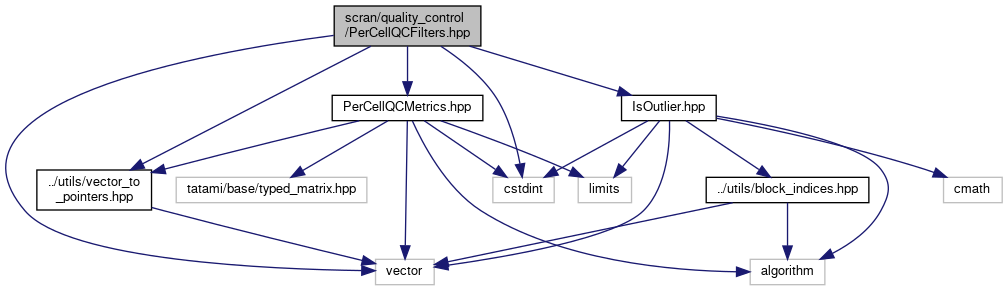
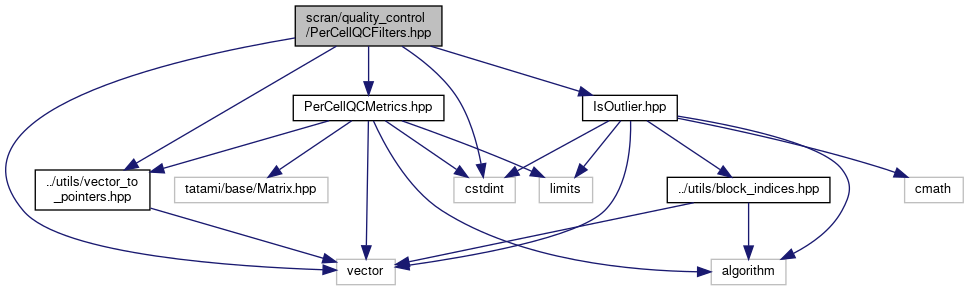
Deploying to gh-pages from @ LTLA/libscran@9872fdc31f9505e23e76f8c2ffe08160e81ae465 🚀

diff --git a/docs/PerCellQCMetrics_8hpp_source.html b/docs/PerCellQCMetrics_8hpp_source.html
@@ -79,7 +79,7 @@ $(function() {
 <div class="line"><a name="l00006"></a><span class="lineno">    6</span>&#160;<span class="preprocessor">#include &lt;limits&gt;</span></div>
 <div class="line"><a name="l00007"></a><span class="lineno">    7</span>&#160;<span class="preprocessor">#include &lt;cstdint&gt;</span></div>
 <div class="line"><a name="l00008"></a><span class="lineno">    8</span>&#160; </div>
-<div class="line"><a name="l00009"></a><span class="lineno">    9</span>&#160;<span class="preprocessor">#include &quot;tatami/base/typed_matrix.hpp&quot;</span></div>
+<div class="line"><a name="l00009"></a><span class="lineno">    9</span>&#160;<span class="preprocessor">#include &quot;tatami/base/Matrix.hpp&quot;</span></div>
 <div class="line"><a name="l00010"></a><span class="lineno">   10</span>&#160;<span class="preprocessor">#include &quot;../utils/vector_to_pointers.hpp&quot;</span></div>
 <div class="line"><a name="l00011"></a><span class="lineno">   11</span>&#160; </div>
 <div class="line"><a name="l00018"></a><span class="lineno">   18</span>&#160;<span class="keyword">namespace </span>scran {</div>
@@ -112,14 +112,14 @@ $(function() {
 <div class="line"><a name="l00097"></a><span class="lineno">   97</span>&#160; </div>
 <div class="line"><a name="l00098"></a><span class="lineno">   98</span>&#160;<span class="keyword">public</span>:</div>
 <div class="line"><a name="l00107"></a><span class="lineno">  107</span>&#160;    <span class="keyword">template</span>&lt;<span class="keyword">typename</span> T, <span class="keyword">typename</span> IDX&gt;</div>
-<div class="line"><a name="l00108"></a><span class="lineno"><a class="line" href="classscran_1_1PerCellQCMetrics.html#afad82e4abf25bcab9dd02b745b0cbb4a">  108</a></span>&#160;    <a class="code" href="structscran_1_1PerCellQCMetrics_1_1Results.html">Results</a> <a class="code" href="classscran_1_1PerCellQCMetrics.html#afad82e4abf25bcab9dd02b745b0cbb4a">run</a>(<span class="keyword">const</span> tatami::typed_matrix&lt;T, IDX&gt;* mat) {</div>
+<div class="line"><a name="l00108"></a><span class="lineno"><a class="line" href="classscran_1_1PerCellQCMetrics.html#a1c92ce64f889f883aa34c91c91f7b34f">  108</a></span>&#160;    <a class="code" href="structscran_1_1PerCellQCMetrics_1_1Results.html">Results</a> <a class="code" href="classscran_1_1PerCellQCMetrics.html#a1c92ce64f889f883aa34c91c91f7b34f">run</a>(<span class="keyword">const</span> tatami::Matrix&lt;T, IDX&gt;* mat) {</div>
 <div class="line"><a name="l00109"></a><span class="lineno">  109</span>&#160;        <a class="code" href="structscran_1_1PerCellQCMetrics_1_1Results.html">Results</a> output(mat-&gt;ncol(), subsets.size());</div>
-<div class="line"><a name="l00110"></a><span class="lineno">  110</span>&#160;        <a class="code" href="classscran_1_1PerCellQCMetrics.html#afad82e4abf25bcab9dd02b745b0cbb4a">run</a>(mat, output.<a class="code" href="structscran_1_1PerCellQCMetrics_1_1Results.html#ab5bb02c70da538cd219ab34ff251ac10">sums</a>.data(), output.<a class="code" href="structscran_1_1PerCellQCMetrics_1_1Results.html#a7b989c742246c9faf8c2dad712f58903">detected</a>.data(), vector_to_pointers(output.<a class="code" href="structscran_1_1PerCellQCMetrics_1_1Results.html#a1e7024d0847a5f11b6bbf21b0cd27aa9">subset_proportions</a>));</div>
+<div class="line"><a name="l00110"></a><span class="lineno">  110</span>&#160;        <a class="code" href="classscran_1_1PerCellQCMetrics.html#a1c92ce64f889f883aa34c91c91f7b34f">run</a>(mat, output.<a class="code" href="structscran_1_1PerCellQCMetrics_1_1Results.html#ab5bb02c70da538cd219ab34ff251ac10">sums</a>.data(), output.<a class="code" href="structscran_1_1PerCellQCMetrics_1_1Results.html#a7b989c742246c9faf8c2dad712f58903">detected</a>.data(), vector_to_pointers(output.<a class="code" href="structscran_1_1PerCellQCMetrics_1_1Results.html#a1e7024d0847a5f11b6bbf21b0cd27aa9">subset_proportions</a>));</div>
 <div class="line"><a name="l00111"></a><span class="lineno">  111</span>&#160;        <span class="keywordflow">return</span> output;</div>
 <div class="line"><a name="l00112"></a><span class="lineno">  112</span>&#160;    }</div>
 <div class="line"><a name="l00113"></a><span class="lineno">  113</span>&#160; </div>
 <div class="line"><a name="l00127"></a><span class="lineno">  127</span>&#160;    <span class="keyword">template</span>&lt;<span class="keyword">typename</span> T, <span class="keyword">typename</span> IDX, <span class="keyword">typename</span> S, <span class="keyword">typename</span> D, <span class="keyword">typename</span> P&gt;</div>
-<div class="line"><a name="l00128"></a><span class="lineno"><a class="line" href="classscran_1_1PerCellQCMetrics.html#a151571be33c547178faa9e0c1eaecf29">  128</a></span>&#160;    <span class="keywordtype">void</span> <a class="code" href="classscran_1_1PerCellQCMetrics.html#a151571be33c547178faa9e0c1eaecf29">run</a>(<span class="keyword">const</span> tatami::typed_matrix&lt;T, IDX&gt;* mat, S* sums, D* detected, std::vector&lt;P*&gt; subset_proportions) {</div>
+<div class="line"><a name="l00128"></a><span class="lineno"><a class="line" href="classscran_1_1PerCellQCMetrics.html#a7d63edaacdaeb64a79a30bb5ccea82c8">  128</a></span>&#160;    <span class="keywordtype">void</span> <a class="code" href="classscran_1_1PerCellQCMetrics.html#a7d63edaacdaeb64a79a30bb5ccea82c8">run</a>(<span class="keyword">const</span> tatami::Matrix&lt;T, IDX&gt;* mat, S* sums, D* detected, std::vector&lt;P*&gt; subset_proportions) {</div>
 <div class="line"><a name="l00129"></a><span class="lineno">  129</span>&#160;        <span class="keywordtype">size_t</span> nr = mat-&gt;nrow(), nc = mat-&gt;ncol();</div>
 <div class="line"><a name="l00130"></a><span class="lineno">  130</span>&#160; </div>
 <div class="line"><a name="l00131"></a><span class="lineno">  131</span>&#160;        <span class="keywordflow">if</span> (mat-&gt;prefer_rows()) {</div>
@@ -239,12 +239,12 @@ $(function() {
 <div class="line"><a name="l00245"></a><span class="lineno">  245</span>&#160; </div>
 <div class="line"><a name="l00246"></a><span class="lineno">  246</span>&#160;<span class="preprocessor">#endif</span></div>
 <div class="ttc" id="aclassscran_1_1PerCellQCMetrics_html"><div class="ttname"><a href="classscran_1_1PerCellQCMetrics.html">scran::PerCellQCMetrics</a></div><div class="ttdoc">Compute typical per-cell quality control metrics.</div><div class="ttdef"><b>Definition:</b> PerCellQCMetrics.hpp:35</div></div>
-<div class="ttc" id="aclassscran_1_1PerCellQCMetrics_html_a151571be33c547178faa9e0c1eaecf29"><div class="ttname"><a href="classscran_1_1PerCellQCMetrics.html#a151571be33c547178faa9e0c1eaecf29">scran::PerCellQCMetrics::run</a></div><div class="ttdeci">void run(const tatami::typed_matrix&lt; T, IDX &gt; *mat, S *sums, D *detected, std::vector&lt; P * &gt; subset_proportions)</div><div class="ttdef"><b>Definition:</b> PerCellQCMetrics.hpp:128</div></div>
+<div class="ttc" id="aclassscran_1_1PerCellQCMetrics_html_a1c92ce64f889f883aa34c91c91f7b34f"><div class="ttname"><a href="classscran_1_1PerCellQCMetrics.html#a1c92ce64f889f883aa34c91c91f7b34f">scran::PerCellQCMetrics::run</a></div><div class="ttdeci">Results run(const tatami::Matrix&lt; T, IDX &gt; *mat)</div><div class="ttdef"><b>Definition:</b> PerCellQCMetrics.hpp:108</div></div>
 <div class="ttc" id="aclassscran_1_1PerCellQCMetrics_html_a3805947ce4bf8d355d79d375c2a1eaf6"><div class="ttname"><a href="classscran_1_1PerCellQCMetrics.html#a3805947ce4bf8d355d79d375c2a1eaf6">scran::PerCellQCMetrics::PerCellQCMetrics</a></div><div class="ttdeci">PerCellQCMetrics()</div><div class="ttdef"><b>Definition:</b> PerCellQCMetrics.hpp:40</div></div>
+<div class="ttc" id="aclassscran_1_1PerCellQCMetrics_html_a7d63edaacdaeb64a79a30bb5ccea82c8"><div class="ttname"><a href="classscran_1_1PerCellQCMetrics.html#a7d63edaacdaeb64a79a30bb5ccea82c8">scran::PerCellQCMetrics::run</a></div><div class="ttdeci">void run(const tatami::Matrix&lt; T, IDX &gt; *mat, S *sums, D *detected, std::vector&lt; P * &gt; subset_proportions)</div><div class="ttdef"><b>Definition:</b> PerCellQCMetrics.hpp:128</div></div>
 <div class="ttc" id="aclassscran_1_1PerCellQCMetrics_html_a945a454e04bfffb66b19e02027eaed71"><div class="ttname"><a href="classscran_1_1PerCellQCMetrics.html#a945a454e04bfffb66b19e02027eaed71">scran::PerCellQCMetrics::set_subsets</a></div><div class="ttdeci">PerCellQCMetrics &amp; set_subsets(std::vector&lt; const X * &gt; s)</div><div class="ttdef"><b>Definition:</b> PerCellQCMetrics.hpp:65</div></div>
 <div class="ttc" id="aclassscran_1_1PerCellQCMetrics_html_ab875f8d10b1265311d2d62a5a8bac8dd"><div class="ttname"><a href="classscran_1_1PerCellQCMetrics.html#ab875f8d10b1265311d2d62a5a8bac8dd">scran::PerCellQCMetrics::PerCellQCMetrics</a></div><div class="ttdeci">PerCellQCMetrics(std::vector&lt; const X * &gt; s)</div><div class="ttdef"><b>Definition:</b> PerCellQCMetrics.hpp:52</div></div>
 <div class="ttc" id="aclassscran_1_1PerCellQCMetrics_html_ae7f6e6f6a45b0909bec33df36cbaf77d"><div class="ttname"><a href="classscran_1_1PerCellQCMetrics.html#ae7f6e6f6a45b0909bec33df36cbaf77d">scran::PerCellQCMetrics::PerCellQCMetrics</a></div><div class="ttdeci">PerCellQCMetrics(const std::vector&lt; X * &gt; &amp;s)</div><div class="ttdef"><b>Definition:</b> PerCellQCMetrics.hpp:47</div></div>
-<div class="ttc" id="aclassscran_1_1PerCellQCMetrics_html_afad82e4abf25bcab9dd02b745b0cbb4a"><div class="ttname"><a href="classscran_1_1PerCellQCMetrics.html#afad82e4abf25bcab9dd02b745b0cbb4a">scran::PerCellQCMetrics::run</a></div><div class="ttdeci">Results run(const tatami::typed_matrix&lt; T, IDX &gt; *mat)</div><div class="ttdef"><b>Definition:</b> PerCellQCMetrics.hpp:108</div></div>
 <div class="ttc" id="astructscran_1_1PerCellQCMetrics_1_1Results_html"><div class="ttname"><a href="structscran_1_1PerCellQCMetrics_1_1Results.html">scran::PerCellQCMetrics::Results</a></div><div class="ttdoc">Result store for QC metric calculations.</div><div class="ttdef"><b>Definition:</b> PerCellQCMetrics.hpp:74</div></div>
 <div class="ttc" id="astructscran_1_1PerCellQCMetrics_1_1Results_html_a1e7024d0847a5f11b6bbf21b0cd27aa9"><div class="ttname"><a href="structscran_1_1PerCellQCMetrics_1_1Results.html#a1e7024d0847a5f11b6bbf21b0cd27aa9">scran::PerCellQCMetrics::Results::subset_proportions</a></div><div class="ttdeci">std::vector&lt; std::vector&lt; double &gt; &gt; subset_proportions</div><div class="ttdef"><b>Definition:</b> PerCellQCMetrics.hpp:95</div></div>
 <div class="ttc" id="astructscran_1_1PerCellQCMetrics_1_1Results_html_a7b989c742246c9faf8c2dad712f58903"><div class="ttname"><a href="structscran_1_1PerCellQCMetrics_1_1Results.html#a7b989c742246c9faf8c2dad712f58903">scran::PerCellQCMetrics::Results::detected</a></div><div class="ttdeci">std::vector&lt; int &gt; detected</div><div class="ttdef"><b>Definition:</b> PerCellQCMetrics.hpp:89</div></div>

diff --git a/docs/classscran_1_1PerCellQCMetrics.html b/docs/classscran_1_1PerCellQCMetrics.html
@@ -97,12 +97,12 @@ Public Member Functions</h2></td></tr>
 <tr class="separator:ab875f8d10b1265311d2d62a5a8bac8dd"><td class="memSeparator" colspan="2">&#160;</td></tr>
 <tr class="memitem:a945a454e04bfffb66b19e02027eaed71"><td class="memItemLeft" align="right" valign="top"><a class="el" href="classscran_1_1PerCellQCMetrics.html">PerCellQCMetrics</a> &amp;&#160;</td><td class="memItemRight" valign="bottom"><a class="el" href="classscran_1_1PerCellQCMetrics.html#a945a454e04bfffb66b19e02027eaed71">set_subsets</a> (std::vector&lt; const X * &gt; s)</td></tr>
 <tr class="separator:a945a454e04bfffb66b19e02027eaed71"><td class="memSeparator" colspan="2">&#160;</td></tr>
-<tr class="memitem:afad82e4abf25bcab9dd02b745b0cbb4a"><td class="memTemplParams" colspan="2">template&lt;typename T , typename IDX &gt; </td></tr>
-<tr class="memitem:afad82e4abf25bcab9dd02b745b0cbb4a"><td class="memTemplItemLeft" align="right" valign="top"><a class="el" href="structscran_1_1PerCellQCMetrics_1_1Results.html">Results</a>&#160;</td><td class="memTemplItemRight" valign="bottom"><a class="el" href="classscran_1_1PerCellQCMetrics.html#afad82e4abf25bcab9dd02b745b0cbb4a">run</a> (const tatami::typed_matrix&lt; T, IDX &gt; *mat)</td></tr>
-<tr class="separator:afad82e4abf25bcab9dd02b745b0cbb4a"><td class="memSeparator" colspan="2">&#160;</td></tr>
-<tr class="memitem:a151571be33c547178faa9e0c1eaecf29"><td class="memTemplParams" colspan="2">template&lt;typename T , typename IDX , typename S , typename D , typename P &gt; </td></tr>
-<tr class="memitem:a151571be33c547178faa9e0c1eaecf29"><td class="memTemplItemLeft" align="right" valign="top">void&#160;</td><td class="memTemplItemRight" valign="bottom"><a class="el" href="classscran_1_1PerCellQCMetrics.html#a151571be33c547178faa9e0c1eaecf29">run</a> (const tatami::typed_matrix&lt; T, IDX &gt; *mat, S *sums, D *detected, std::vector&lt; P * &gt; subset_proportions)</td></tr>
-<tr class="separator:a151571be33c547178faa9e0c1eaecf29"><td class="memSeparator" colspan="2">&#160;</td></tr>
+<tr class="memitem:a1c92ce64f889f883aa34c91c91f7b34f"><td class="memTemplParams" colspan="2">template&lt;typename T , typename IDX &gt; </td></tr>
+<tr class="memitem:a1c92ce64f889f883aa34c91c91f7b34f"><td class="memTemplItemLeft" align="right" valign="top"><a class="el" href="structscran_1_1PerCellQCMetrics_1_1Results.html">Results</a>&#160;</td><td class="memTemplItemRight" valign="bottom"><a class="el" href="classscran_1_1PerCellQCMetrics.html#a1c92ce64f889f883aa34c91c91f7b34f">run</a> (const tatami::Matrix&lt; T, IDX &gt; *mat)</td></tr>
+<tr class="separator:a1c92ce64f889f883aa34c91c91f7b34f"><td class="memSeparator" colspan="2">&#160;</td></tr>
+<tr class="memitem:a7d63edaacdaeb64a79a30bb5ccea82c8"><td class="memTemplParams" colspan="2">template&lt;typename T , typename IDX , typename S , typename D , typename P &gt; </td></tr>
+<tr class="memitem:a7d63edaacdaeb64a79a30bb5ccea82c8"><td class="memTemplItemLeft" align="right" valign="top">void&#160;</td><td class="memTemplItemRight" valign="bottom"><a class="el" href="classscran_1_1PerCellQCMetrics.html#a7d63edaacdaeb64a79a30bb5ccea82c8">run</a> (const tatami::Matrix&lt; T, IDX &gt; *mat, S *sums, D *detected, std::vector&lt; P * &gt; subset_proportions)</td></tr>
+<tr class="separator:a7d63edaacdaeb64a79a30bb5ccea82c8"><td class="memSeparator" colspan="2">&#160;</td></tr>
 </table>
 <a name="details" id="details"></a><h2 class="groupheader">Detailed Description</h2>
 <div class="textblock"><h3>template&lt;typename X = uint8_t&gt;<br />
@@ -221,8 +221,8 @@ template&lt;typename X  = uint8_t&gt; </div>
 </div>
 </div>
 <h2 class="groupheader">Member Function Documentation</h2>
-<a id="afad82e4abf25bcab9dd02b745b0cbb4a"></a>
-<h2 class="memtitle"><span class="permalink"><a href="#afad82e4abf25bcab9dd02b745b0cbb4a">&#9670;&nbsp;</a></span>run() <span class="overload">[1/2]</span></h2>
+<a id="a1c92ce64f889f883aa34c91c91f7b34f"></a>
+<h2 class="memtitle"><span class="permalink"><a href="#a1c92ce64f889f883aa34c91c91f7b34f">&#9670;&nbsp;</a></span>run() <span class="overload">[1/2]</span></h2>
 
 <div class="memitem">
 <div class="memproto">
@@ -237,7 +237,7 @@ template&lt;typename T , typename IDX &gt; </div>
         <tr>
           <td class="memname"><a class="el" href="structscran_1_1PerCellQCMetrics_1_1Results.html">Results</a> <a class="el" href="classscran_1_1PerCellQCMetrics.html">scran::PerCellQCMetrics</a>&lt; X &gt;::run </td>
           <td>(</td>
-          <td class="paramtype">const tatami::typed_matrix&lt; T, IDX &gt; *&#160;</td>
+          <td class="paramtype">const tatami::Matrix&lt; T, IDX &gt; *&#160;</td>
           <td class="paramname"><em>mat</em></td><td>)</td>
           <td></td>
         </tr>
@@ -259,8 +259,8 @@ template&lt;typename T , typename IDX &gt; </div>
 
 </div>
 </div>
-<a id="a151571be33c547178faa9e0c1eaecf29"></a>
-<h2 class="memtitle"><span class="permalink"><a href="#a151571be33c547178faa9e0c1eaecf29">&#9670;&nbsp;</a></span>run() <span class="overload">[2/2]</span></h2>
+<a id="a7d63edaacdaeb64a79a30bb5ccea82c8"></a>
+<h2 class="memtitle"><span class="permalink"><a href="#a7d63edaacdaeb64a79a30bb5ccea82c8">&#9670;&nbsp;</a></span>run() <span class="overload">[2/2]</span></h2>
 
 <div class="memitem">
 <div class="memproto">
@@ -275,7 +275,7 @@ template&lt;typename T , typename IDX , typename S , typename D , typename P &gt
         <tr>
           <td class="memname">void <a class="el" href="classscran_1_1PerCellQCMetrics.html">scran::PerCellQCMetrics</a>&lt; X &gt;::run </td>
           <td>(</td>
-          <td class="paramtype">const tatami::typed_matrix&lt; T, IDX &gt; *&#160;</td>
+          <td class="paramtype">const tatami::Matrix&lt; T, IDX &gt; *&#160;</td>
           <td class="paramname"><em>mat</em>, </td>
         </tr>
         <tr>

diff --git a/docs/search/all_7.js b/docs/search/all_7.js
@@ -1,5 +1,5 @@
 var searchData=
 [
   ['results_18',['Results',['../structscran_1_1IsOutlier_1_1Results.html#a4d639722b5356beab69ed32306ff69f2',1,'scran::IsOutlier::Results::Results()'],['../structscran_1_1PerCellQCFilters_1_1Results.html#afe6327eadd4aae2a807902d3fbf29246',1,'scran::PerCellQCFilters::Results::Results()'],['../structscran_1_1PerCellQCMetrics_1_1Results.html#ad115b41f6c97dc26ad8b8fa5ec75fe5b',1,'scran::PerCellQCMetrics::Results::Results()'],['../structscran_1_1IsOutlier_1_1Results.html',1,'scran::IsOutlier::Results&lt; X &gt;'],['../structscran_1_1PerCellQCFilters_1_1Results.html',1,'scran::PerCellQCFilters::Results&lt; X &gt;'],['../structscran_1_1PerCellQCMetrics_1_1Results.html',1,'scran::PerCellQCMetrics&lt; X &gt;::Results']]],
-  ['run_19',['run',['../classscran_1_1LogNormCounts.html#a2a50352164009a0f0fb9e1457bac463c',1,'scran::LogNormCounts::run()'],['../classscran_1_1FilterCells.html#a9a3ac1f7e4fba3ceaf6851dc1dfae450',1,'scran::FilterCells::run()'],['../classscran_1_1IsOutlier.html#aadf79ca12b2cda338e92b47b3cbeeb26',1,'scran::IsOutlier::run(const V &amp;metrics)'],['../classscran_1_1IsOutlier.html#a73b79a27398e2a0d0235d5eee4ec6ac9',1,'scran::IsOutlier::run(size_t n, const T *metrics)'],['../classscran_1_1IsOutlier.html#ad94a76bb036c611475a67dbe1f08de73',1,'scran::IsOutlier::run(size_t n, const T *metrics, X *outliers)'],['../classscran_1_1PerCellQCFilters.html#a5d1959de32123024c041ffcd9834c749',1,'scran::PerCellQCFilters::run(size_t ncells, const S *sums, const D *detected, std::vector&lt; PTR &gt; subset_proportions, X *filter_by_sums, X *filter_by_detected, std::vector&lt; X * &gt; filter_by_subset_proportions, X *overall_filter)'],['../classscran_1_1PerCellQCFilters.html#ac8a49e065459b85abb055166ed2dad36',1,'scran::PerCellQCFilters::run(size_t ncells, const S *sums, const D *detected, std::vector&lt; PTR &gt; subset_proportions)'],['../classscran_1_1PerCellQCFilters.html#a063c253532b026d81d25333b2df399cd',1,'scran::PerCellQCFilters::run(const R &amp;metrics)'],['../classscran_1_1PerCellQCMetrics.html#afad82e4abf25bcab9dd02b745b0cbb4a',1,'scran::PerCellQCMetrics::run(const tatami::typed_matrix&lt; T, IDX &gt; *mat)'],['../classscran_1_1PerCellQCMetrics.html#a151571be33c547178faa9e0c1eaecf29',1,'scran::PerCellQCMetrics::run(const tatami::typed_matrix&lt; T, IDX &gt; *mat, S *sums, D *detected, std::vector&lt; P * &gt; subset_proportions)']]]
+  ['run_19',['run',['../classscran_1_1LogNormCounts.html#a2a50352164009a0f0fb9e1457bac463c',1,'scran::LogNormCounts::run()'],['../classscran_1_1FilterCells.html#a9a3ac1f7e4fba3ceaf6851dc1dfae450',1,'scran::FilterCells::run()'],['../classscran_1_1IsOutlier.html#aadf79ca12b2cda338e92b47b3cbeeb26',1,'scran::IsOutlier::run(const V &amp;metrics)'],['../classscran_1_1IsOutlier.html#a73b79a27398e2a0d0235d5eee4ec6ac9',1,'scran::IsOutlier::run(size_t n, const T *metrics)'],['../classscran_1_1IsOutlier.html#ad94a76bb036c611475a67dbe1f08de73',1,'scran::IsOutlier::run(size_t n, const T *metrics, X *outliers)'],['../classscran_1_1PerCellQCFilters.html#a5d1959de32123024c041ffcd9834c749',1,'scran::PerCellQCFilters::run(size_t ncells, const S *sums, const D *detected, std::vector&lt; PTR &gt; subset_proportions, X *filter_by_sums, X *filter_by_detected, std::vector&lt; X * &gt; filter_by_subset_proportions, X *overall_filter)'],['../classscran_1_1PerCellQCFilters.html#ac8a49e065459b85abb055166ed2dad36',1,'scran::PerCellQCFilters::run(size_t ncells, const S *sums, const D *detected, std::vector&lt; PTR &gt; subset_proportions)'],['../classscran_1_1PerCellQCFilters.html#a063c253532b026d81d25333b2df399cd',1,'scran::PerCellQCFilters::run(const R &amp;metrics)'],['../classscran_1_1PerCellQCMetrics.html#a1c92ce64f889f883aa34c91c91f7b34f',1,'scran::PerCellQCMetrics::run(const tatami::Matrix&lt; T, IDX &gt; *mat)'],['../classscran_1_1PerCellQCMetrics.html#a7d63edaacdaeb64a79a30bb5ccea82c8',1,'scran::PerCellQCMetrics::run(const tatami::Matrix&lt; T, IDX &gt; *mat, S *sums, D *detected, std::vector&lt; P * &gt; subset_proportions)']]]
 ];

diff --git a/docs/ModelGeneVar_8hpp_source.html b/docs/ModelGeneVar_8hpp_source.html
@@ -71,10 +71,10 @@ $(function() {
 <div class="title">ModelGeneVar.hpp</div>  </div>
 </div><!--header-->
 <div class="contents">
-<div class="fragment"><div class="line"><a name="l00001"></a><span class="lineno">    1</span>&#160;<span class="preprocessor">#ifndef MODEL_GENE_VAR_H</span></div>
-<div class="line"><a name="l00002"></a><span class="lineno">    2</span>&#160;<span class="preprocessor">#define MODEL_GENE_VAR_H</span></div>
+<div class="fragment"><div class="line"><a name="l00001"></a><span class="lineno">    1</span>&#160;<span class="preprocessor">#ifndef SCRAN_MODEL_GENE_VAR_H</span></div>
+<div class="line"><a name="l00002"></a><span class="lineno">    2</span>&#160;<span class="preprocessor">#define SCRAN_MODEL_GENE_VAR_H</span></div>
 <div class="line"><a name="l00003"></a><span class="lineno">    3</span>&#160; </div>
-<div class="line"><a name="l00004"></a><span class="lineno">    4</span>&#160;<span class="preprocessor">#include &quot;tatami/base/typed_matrix.hpp&quot;</span></div>
+<div class="line"><a name="l00004"></a><span class="lineno">    4</span>&#160;<span class="preprocessor">#include &quot;tatami/base/Matrix.hpp&quot;</span></div>
 <div class="line"><a name="l00005"></a><span class="lineno">    5</span>&#160;<span class="preprocessor">#include &quot;../utils/vector_to_pointers.hpp&quot;</span></div>
 <div class="line"><a name="l00006"></a><span class="lineno">    6</span>&#160;<span class="preprocessor">#include &quot;FitTrendVar.hpp&quot;</span></div>
 <div class="line"><a name="l00007"></a><span class="lineno">    7</span>&#160; </div>
@@ -129,7 +129,7 @@ $(function() {
 <div class="line"><a name="l00056"></a><span class="lineno">   56</span>&#160; </div>
 <div class="line"><a name="l00057"></a><span class="lineno">   57</span>&#160;<span class="keyword">public</span>:</div>
 <div class="line"><a name="l00058"></a><span class="lineno">   58</span>&#160;    <span class="keyword">template</span>&lt;<span class="keyword">typename</span> T, <span class="keyword">typename</span> IDX&gt;</div>
-<div class="line"><a name="l00059"></a><span class="lineno">   59</span>&#160;    Results run(<span class="keyword">const</span> tatami::typed_matrix&lt;T, IDX&gt;* mat) {</div>
+<div class="line"><a name="l00059"></a><span class="lineno">   59</span>&#160;    Results run(<span class="keyword">const</span> tatami::Matrix&lt;T, IDX&gt;* mat) {</div>
 <div class="line"><a name="l00060"></a><span class="lineno">   60</span>&#160;        Results output(mat-&gt;nrow(), nblocks);</div>
 <div class="line"><a name="l00061"></a><span class="lineno">   61</span>&#160;        run(mat, </div>
 <div class="line"><a name="l00062"></a><span class="lineno">   62</span>&#160;            vector_to_pointers(output.means),</div>
@@ -140,7 +140,7 @@ $(function() {
 <div class="line"><a name="l00067"></a><span class="lineno">   67</span>&#160;    }</div>
 <div class="line"><a name="l00068"></a><span class="lineno">   68</span>&#160; </div>
 <div class="line"><a name="l00069"></a><span class="lineno">   69</span>&#160;    <span class="keyword">template</span>&lt;<span class="keyword">typename</span> T, <span class="keyword">typename</span> IDX&gt;</div>
-<div class="line"><a name="l00070"></a><span class="lineno">   70</span>&#160;    <span class="keywordtype">void</span> run(<span class="keyword">const</span> tatami::typed_matrix&lt;T, IDX&gt;* p, </div>
+<div class="line"><a name="l00070"></a><span class="lineno">   70</span>&#160;    <span class="keywordtype">void</span> run(<span class="keyword">const</span> tatami::Matrix&lt;T, IDX&gt;* p, </div>
 <div class="line"><a name="l00071"></a><span class="lineno">   71</span>&#160;             std::vector&lt;double*&gt; means,</div>
 <div class="line"><a name="l00072"></a><span class="lineno">   72</span>&#160;             std::vector&lt;double*&gt; variances,</div>
 <div class="line"><a name="l00073"></a><span class="lineno">   73</span>&#160;             std::vector&lt;double*&gt; fitted,</div>

diff --git a/docs/search/functions_1.js b/docs/search/functions_1.js
@@ -1,5 +1,5 @@
 var searchData=
 [
   ['results_49',['Results',['../structscran_1_1IsOutlier_1_1Results.html#a4d639722b5356beab69ed32306ff69f2',1,'scran::IsOutlier::Results::Results()'],['../structscran_1_1PerCellQCFilters_1_1Results.html#afe6327eadd4aae2a807902d3fbf29246',1,'scran::PerCellQCFilters::Results::Results()'],['../structscran_1_1PerCellQCMetrics_1_1Results.html#ad115b41f6c97dc26ad8b8fa5ec75fe5b',1,'scran::PerCellQCMetrics::Results::Results()']]],
-  ['run_50',['run',['../classscran_1_1LogNormCounts.html#a2a50352164009a0f0fb9e1457bac463c',1,'scran::LogNormCounts::run()'],['../classscran_1_1FilterCells.html#a9a3ac1f7e4fba3ceaf6851dc1dfae450',1,'scran::FilterCells::run()'],['../classscran_1_1IsOutlier.html#aadf79ca12b2cda338e92b47b3cbeeb26',1,'scran::IsOutlier::run(const V &amp;metrics)'],['../classscran_1_1IsOutlier.html#a73b79a27398e2a0d0235d5eee4ec6ac9',1,'scran::IsOutlier::run(size_t n, const T *metrics)'],['../classscran_1_1IsOutlier.html#ad94a76bb036c611475a67dbe1f08de73',1,'scran::IsOutlier::run(size_t n, const T *metrics, X *outliers)'],['../classscran_1_1PerCellQCFilters.html#a5d1959de32123024c041ffcd9834c749',1,'scran::PerCellQCFilters::run(size_t ncells, const S *sums, const D *detected, std::vector&lt; PTR &gt; subset_proportions, X *filter_by_sums, X *filter_by_detected, std::vector&lt; X * &gt; filter_by_subset_proportions, X *overall_filter)'],['../classscran_1_1PerCellQCFilters.html#ac8a49e065459b85abb055166ed2dad36',1,'scran::PerCellQCFilters::run(size_t ncells, const S *sums, const D *detected, std::vector&lt; PTR &gt; subset_proportions)'],['../classscran_1_1PerCellQCFilters.html#a063c253532b026d81d25333b2df399cd',1,'scran::PerCellQCFilters::run(const R &amp;metrics)'],['../classscran_1_1PerCellQCMetrics.html#afad82e4abf25bcab9dd02b745b0cbb4a',1,'scran::PerCellQCMetrics::run(const tatami::typed_matrix&lt; T, IDX &gt; *mat)'],['../classscran_1_1PerCellQCMetrics.html#a151571be33c547178faa9e0c1eaecf29',1,'scran::PerCellQCMetrics::run(const tatami::typed_matrix&lt; T, IDX &gt; *mat, S *sums, D *detected, std::vector&lt; P * &gt; subset_proportions)']]]
+  ['run_50',['run',['../classscran_1_1LogNormCounts.html#a2a50352164009a0f0fb9e1457bac463c',1,'scran::LogNormCounts::run()'],['../classscran_1_1FilterCells.html#a9a3ac1f7e4fba3ceaf6851dc1dfae450',1,'scran::FilterCells::run()'],['../classscran_1_1IsOutlier.html#aadf79ca12b2cda338e92b47b3cbeeb26',1,'scran::IsOutlier::run(const V &amp;metrics)'],['../classscran_1_1IsOutlier.html#a73b79a27398e2a0d0235d5eee4ec6ac9',1,'scran::IsOutlier::run(size_t n, const T *metrics)'],['../classscran_1_1IsOutlier.html#ad94a76bb036c611475a67dbe1f08de73',1,'scran::IsOutlier::run(size_t n, const T *metrics, X *outliers)'],['../classscran_1_1PerCellQCFilters.html#a5d1959de32123024c041ffcd9834c749',1,'scran::PerCellQCFilters::run(size_t ncells, const S *sums, const D *detected, std::vector&lt; PTR &gt; subset_proportions, X *filter_by_sums, X *filter_by_detected, std::vector&lt; X * &gt; filter_by_subset_proportions, X *overall_filter)'],['../classscran_1_1PerCellQCFilters.html#ac8a49e065459b85abb055166ed2dad36',1,'scran::PerCellQCFilters::run(size_t ncells, const S *sums, const D *detected, std::vector&lt; PTR &gt; subset_proportions)'],['../classscran_1_1PerCellQCFilters.html#a063c253532b026d81d25333b2df399cd',1,'scran::PerCellQCFilters::run(const R &amp;metrics)'],['../classscran_1_1PerCellQCMetrics.html#a1c92ce64f889f883aa34c91c91f7b34f',1,'scran::PerCellQCMetrics::run(const tatami::Matrix&lt; T, IDX &gt; *mat)'],['../classscran_1_1PerCellQCMetrics.html#a7d63edaacdaeb64a79a30bb5ccea82c8',1,'scran::PerCellQCMetrics::run(const tatami::Matrix&lt; T, IDX &gt; *mat, S *sums, D *detected, std::vector&lt; P * &gt; subset_proportions)']]]
 ];

diff --git a/docs/classscran_1_1PerCellQCMetrics-members.html b/docs/classscran_1_1PerCellQCMetrics-members.html
@@ -77,8 +77,8 @@ $(function() {
   <tr class="even"><td class="entry"><a class="el" href="classscran_1_1PerCellQCMetrics.html#a3805947ce4bf8d355d79d375c2a1eaf6">PerCellQCMetrics</a>()</td><td class="entry"><a class="el" href="classscran_1_1PerCellQCMetrics.html">scran::PerCellQCMetrics&lt; X &gt;</a></td><td class="entry"><span class="mlabel">inline</span></td></tr>
   <tr><td class="entry"><a class="el" href="classscran_1_1PerCellQCMetrics.html#ae7f6e6f6a45b0909bec33df36cbaf77d">PerCellQCMetrics</a>(const std::vector&lt; X * &gt; &amp;s)</td><td class="entry"><a class="el" href="classscran_1_1PerCellQCMetrics.html">scran::PerCellQCMetrics&lt; X &gt;</a></td><td class="entry"><span class="mlabel">inline</span></td></tr>
   <tr class="even"><td class="entry"><a class="el" href="classscran_1_1PerCellQCMetrics.html#ab875f8d10b1265311d2d62a5a8bac8dd">PerCellQCMetrics</a>(std::vector&lt; const X * &gt; s)</td><td class="entry"><a class="el" href="classscran_1_1PerCellQCMetrics.html">scran::PerCellQCMetrics&lt; X &gt;</a></td><td class="entry"><span class="mlabel">inline</span></td></tr>
-  <tr><td class="entry"><a class="el" href="classscran_1_1PerCellQCMetrics.html#afad82e4abf25bcab9dd02b745b0cbb4a">run</a>(const tatami::typed_matrix&lt; T, IDX &gt; *mat)</td><td class="entry"><a class="el" href="classscran_1_1PerCellQCMetrics.html">scran::PerCellQCMetrics&lt; X &gt;</a></td><td class="entry"><span class="mlabel">inline</span></td></tr>
-  <tr class="even"><td class="entry"><a class="el" href="classscran_1_1PerCellQCMetrics.html#a151571be33c547178faa9e0c1eaecf29">run</a>(const tatami::typed_matrix&lt; T, IDX &gt; *mat, S *sums, D *detected, std::vector&lt; P * &gt; subset_proportions)</td><td class="entry"><a class="el" href="classscran_1_1PerCellQCMetrics.html">scran::PerCellQCMetrics&lt; X &gt;</a></td><td class="entry"><span class="mlabel">inline</span></td></tr>
+  <tr><td class="entry"><a class="el" href="classscran_1_1PerCellQCMetrics.html#a1c92ce64f889f883aa34c91c91f7b34f">run</a>(const tatami::Matrix&lt; T, IDX &gt; *mat)</td><td class="entry"><a class="el" href="classscran_1_1PerCellQCMetrics.html">scran::PerCellQCMetrics&lt; X &gt;</a></td><td class="entry"><span class="mlabel">inline</span></td></tr>
+  <tr class="even"><td class="entry"><a class="el" href="classscran_1_1PerCellQCMetrics.html#a7d63edaacdaeb64a79a30bb5ccea82c8">run</a>(const tatami::Matrix&lt; T, IDX &gt; *mat, S *sums, D *detected, std::vector&lt; P * &gt; subset_proportions)</td><td class="entry"><a class="el" href="classscran_1_1PerCellQCMetrics.html">scran::PerCellQCMetrics&lt; X &gt;</a></td><td class="entry"><span class="mlabel">inline</span></td></tr>
   <tr><td class="entry"><a class="el" href="classscran_1_1PerCellQCMetrics.html#a945a454e04bfffb66b19e02027eaed71">set_subsets</a>(std::vector&lt; const X * &gt; s)</td><td class="entry"><a class="el" href="classscran_1_1PerCellQCMetrics.html">scran::PerCellQCMetrics&lt; X &gt;</a></td><td class="entry"><span class="mlabel">inline</span></td></tr>
 </table></div><!-- contents -->
 <!-- start footer part -->

diff --git a/docs/PerCellQCFilters_8hpp.html b/docs/PerCellQCFilters_8hpp.html
@@ -83,17 +83,17 @@ Include dependency graph for PerCellQCFilters.hpp:</div>
 <div class="dyncontent">
 <div class="center"><img src="PerCellQCFilters_8hpp__incl.png" border="0" usemap="#ascran_2quality__control_2PerCellQCFilters_8hpp" alt=""/></div>
 <map name="ascran_2quality__control_2PerCellQCFilters_8hpp" id="ascran_2quality__control_2PerCellQCFilters_8hpp">
-<area shape="rect" title=" " alt="" coords="334,5,481,47"/>
-<area shape="rect" title=" " alt="" coords="376,259,434,285"/>
-<area shape="rect" title=" " alt="" coords="493,177,554,203"/>
-<area shape="rect" href="vector__to__pointers_8hpp_source.html" title=" " alt="" coords="37,169,152,211"/>
-<area shape="rect" href="PerCellQCMetrics_8hpp.html" title=" " alt="" coords="332,95,483,121"/>
-<area shape="rect" href="IsOutlier_8hpp.html" title=" " alt="" coords="622,95,716,121"/>
-<area shape="rect" title=" " alt="" coords="750,259,825,285"/>
-<area shape="rect" title=" " alt="" coords="578,177,632,203"/>
-<area shape="rect" title=" " alt="" coords="176,177,367,203"/>
-<area shape="rect" title=" " alt="" coords="944,177,1002,203"/>
-<area shape="rect" href="block__indices_8hpp_source.html" title=" " alt="" coords="706,177,869,203"/>
+<area shape="rect" title=" " alt="" coords="295,5,442,47"/>
+<area shape="rect" title=" " alt="" coords="337,259,395,285"/>
+<area shape="rect" title=" " alt="" coords="454,177,515,203"/>
+<area shape="rect" href="vector__to__pointers_8hpp_source.html" title=" " alt="" coords="35,169,150,211"/>
+<area shape="rect" href="PerCellQCMetrics_8hpp.html" title=" " alt="" coords="293,95,444,121"/>
+<area shape="rect" href="IsOutlier_8hpp.html" title=" " alt="" coords="583,95,677,121"/>
+<area shape="rect" title=" " alt="" coords="711,259,786,285"/>
+<area shape="rect" title=" " alt="" coords="539,177,593,203"/>
+<area shape="rect" title=" " alt="" coords="175,177,328,203"/>
+<area shape="rect" title=" " alt="" coords="905,177,963,203"/>
+<area shape="rect" href="block__indices_8hpp_source.html" title=" " alt="" coords="667,177,830,203"/>
 </map>
 </div>
 </div>

diff --git a/docs/PerCellQCMetrics_8hpp.html b/docs/PerCellQCMetrics_8hpp.html
@@ -77,7 +77,7 @@ $(function() {
 <code>#include &lt;algorithm&gt;</code><br />
 <code>#include &lt;limits&gt;</code><br />
 <code>#include &lt;cstdint&gt;</code><br />
-<code>#include &quot;tatami/base/typed_matrix.hpp&quot;</code><br />
+<code>#include &quot;tatami/base/Matrix.hpp&quot;</code><br />
 <code>#include &quot;../utils/vector_to_pointers.hpp&quot;</code><br />
 </div><div class="textblock"><div class="dynheader">
 Include dependency graph for PerCellQCMetrics.hpp:</div>
@@ -85,12 +85,12 @@ Include dependency graph for PerCellQCMetrics.hpp:</div>
 <div class="center"><img src="PerCellQCMetrics_8hpp__incl.png" border="0" usemap="#ascran_2quality__control_2PerCellQCMetrics_8hpp" alt=""/></div>
 <map name="ascran_2quality__control_2PerCellQCMetrics_8hpp" id="ascran_2quality__control_2PerCellQCMetrics_8hpp">
 <area shape="rect" title=" " alt="" coords="115,5,269,47"/>
-<area shape="rect" title=" " alt="" coords="245,184,304,211"/>
+<area shape="rect" title=" " alt="" coords="227,184,285,211"/>
 <area shape="rect" title=" " alt="" coords="27,102,101,129"/>
 <area shape="rect" title=" " alt="" coords="125,102,179,129"/>
 <area shape="rect" title=" " alt="" coords="203,102,264,129"/>
-<area shape="rect" title=" " alt="" coords="289,102,479,129"/>
-<area shape="rect" href="vector__to__pointers_8hpp_source.html" title=" " alt="" coords="504,95,619,136"/>
+<area shape="rect" title=" " alt="" coords="289,102,442,129"/>
+<area shape="rect" href="vector__to__pointers_8hpp_source.html" title=" " alt="" coords="467,95,581,136"/>
 </map>
 </div>
 </div><div class="textblock"><div class="dynheader">

diff --git a/docs/LogNormCounts_8hpp_source.html b/docs/LogNormCounts_8hpp_source.html
@@ -71,8 +71,8 @@ $(function() {
 <div class="title">LogNormCounts.hpp</div>  </div>
 </div><!--header-->
 <div class="contents">
-<a href="LogNormCounts_8hpp.html">Go to the documentation of this file.</a><div class="fragment"><div class="line"><a name="l00001"></a><span class="lineno">    1</span>&#160;<span class="preprocessor">#ifndef SCRAN_LOGNORMCOUNTS_H</span></div>
-<div class="line"><a name="l00002"></a><span class="lineno">    2</span>&#160;<span class="preprocessor">#define SCRAN_LOGNORMCOUNTS_H</span></div>
+<a href="LogNormCounts_8hpp.html">Go to the documentation of this file.</a><div class="fragment"><div class="line"><a name="l00001"></a><span class="lineno">    1</span>&#160;<span class="preprocessor">#ifndef SCRAN_LOG_NORM_COUNTS_H</span></div>
+<div class="line"><a name="l00002"></a><span class="lineno">    2</span>&#160;<span class="preprocessor">#define SCRAN_LOG_NORM_COUNTS_H</span></div>
 <div class="line"><a name="l00003"></a><span class="lineno">    3</span>&#160; </div>
 <div class="line"><a name="l00004"></a><span class="lineno">    4</span>&#160;<span class="preprocessor">#include &lt;algorithm&gt;</span></div>
 <div class="line"><a name="l00005"></a><span class="lineno">    5</span>&#160;<span class="preprocessor">#include &lt;vector&gt;</span></div>

diff --git a/docs/FitTrendVar_8hpp_source.html b/docs/FitTrendVar_8hpp_source.html
@@ -71,8 +71,8 @@ $(function() {
 <div class="title">FitTrendVar.hpp</div>  </div>
 </div><!--header-->
 <div class="contents">
-<div class="fragment"><div class="line"><a name="l00001"></a><span class="lineno">    1</span>&#160;<span class="preprocessor">#ifndef FIT_TREND_VAR_H</span></div>
-<div class="line"><a name="l00002"></a><span class="lineno">    2</span>&#160;<span class="preprocessor">#define FIT_TREND_VAR_H</span></div>
+<div class="fragment"><div class="line"><a name="l00001"></a><span class="lineno">    1</span>&#160;<span class="preprocessor">#ifndef SCRAN_FIT_TREND_VAR_H</span></div>
+<div class="line"><a name="l00002"></a><span class="lineno">    2</span>&#160;<span class="preprocessor">#define SCRAN_FIT_TREND_VAR_H</span></div>
 <div class="line"><a name="l00003"></a><span class="lineno">    3</span>&#160; </div>
 <div class="line"><a name="l00004"></a><span class="lineno">    4</span>&#160;<span class="preprocessor">#include &lt;algorithm&gt;</span></div>
 <div class="line"><a name="l00005"></a><span class="lineno">    5</span>&#160;<span class="preprocessor">#include &lt;vector&gt;</span></div>

diff --git a/docs/functions.html b/docs/functions.html
@@ -121,7 +121,7 @@ $(function() {
 , <a class="el" href="classscran_1_1IsOutlier.html#aadf79ca12b2cda338e92b47b3cbeeb26">scran::IsOutlier</a>
 , <a class="el" href="classscran_1_1LogNormCounts.html#a2a50352164009a0f0fb9e1457bac463c">scran::LogNormCounts</a>
 , <a class="el" href="classscran_1_1PerCellQCFilters.html#a5d1959de32123024c041ffcd9834c749">scran::PerCellQCFilters</a>
-, <a class="el" href="classscran_1_1PerCellQCMetrics.html#afad82e4abf25bcab9dd02b745b0cbb4a">scran::PerCellQCMetrics&lt; X &gt;</a>
+, <a class="el" href="classscran_1_1PerCellQCMetrics.html#a1c92ce64f889f883aa34c91c91f7b34f">scran::PerCellQCMetrics&lt; X &gt;</a>
 </li>
 </ul>
 

diff --git a/docs/functions_func.html b/docs/functions_func.html
@@ -83,7 +83,7 @@ $(function() {
 , <a class="el" href="classscran_1_1IsOutlier.html#aadf79ca12b2cda338e92b47b3cbeeb26">scran::IsOutlier</a>
 , <a class="el" href="classscran_1_1LogNormCounts.html#a2a50352164009a0f0fb9e1457bac463c">scran::LogNormCounts</a>
 , <a class="el" href="classscran_1_1PerCellQCFilters.html#a5d1959de32123024c041ffcd9834c749">scran::PerCellQCFilters</a>
-, <a class="el" href="classscran_1_1PerCellQCMetrics.html#afad82e4abf25bcab9dd02b745b0cbb4a">scran::PerCellQCMetrics&lt; X &gt;</a>
+, <a class="el" href="classscran_1_1PerCellQCMetrics.html#a1c92ce64f889f883aa34c91c91f7b34f">scran::PerCellQCMetrics&lt; X &gt;</a>
 </li>
 </ul>
 
